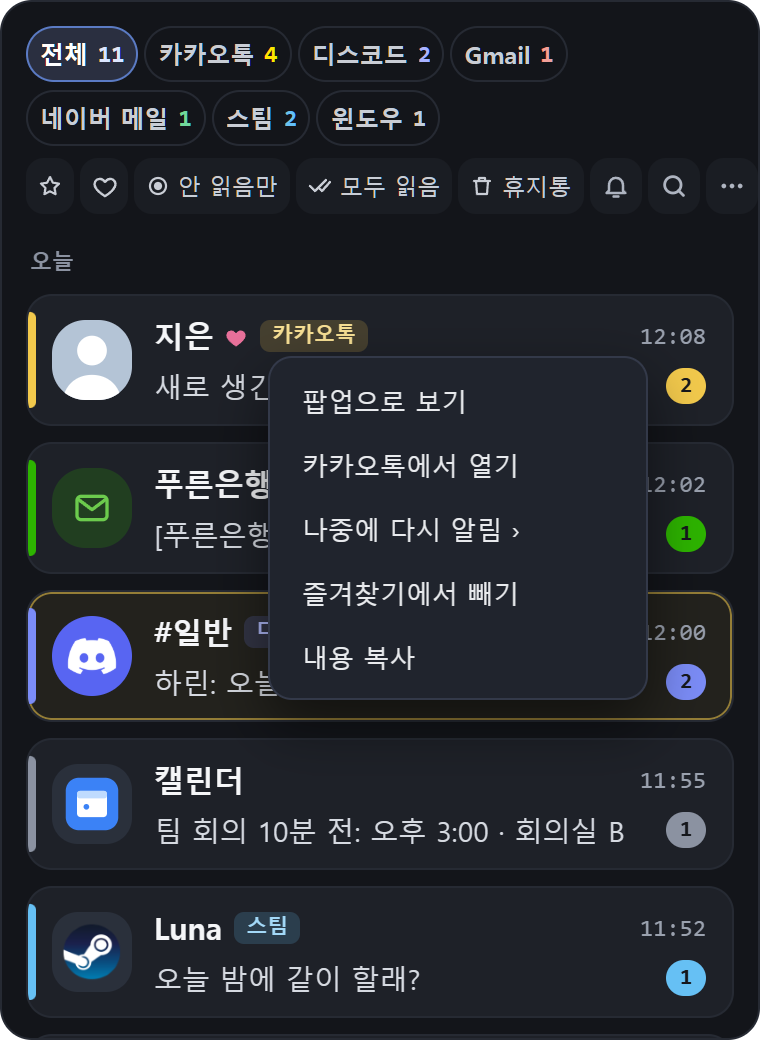
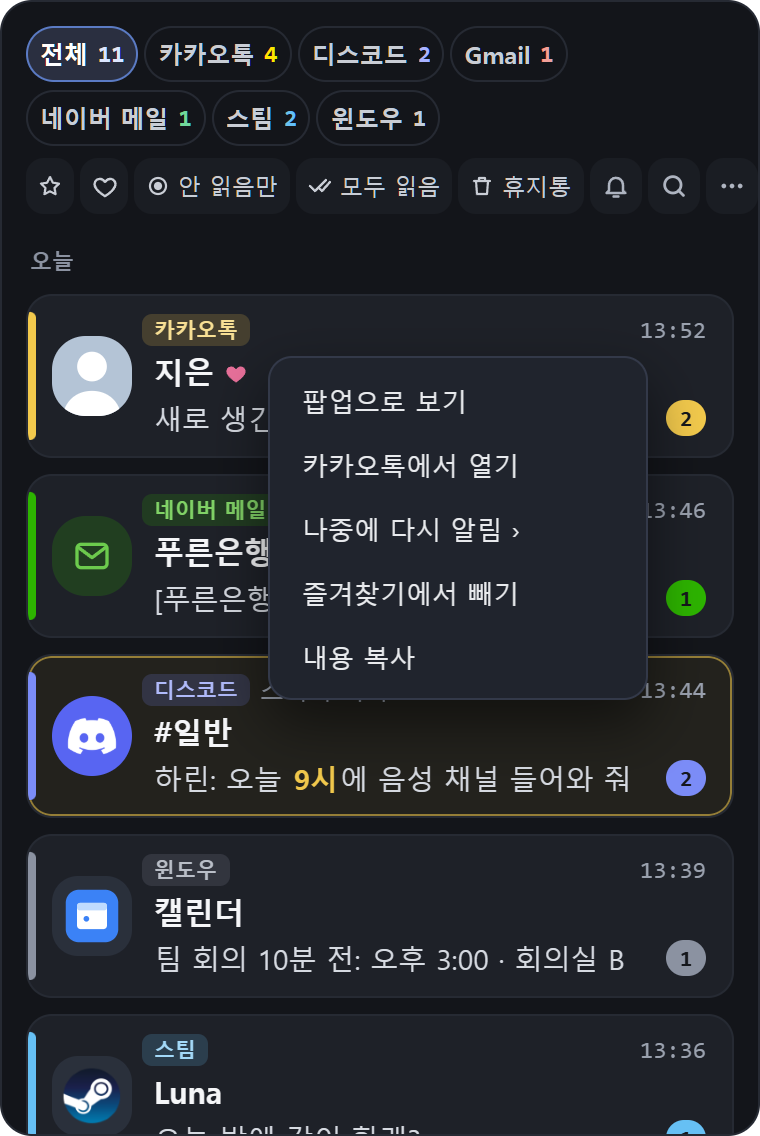
소개 페이지: 0.9.10 에 맞춤 (세 줄 카드 · 우클릭과 같은 ⋯ 메뉴 · 사용법 사진)

diff --git a/README.md b/README.md
@@ -86,12 +86,12 @@
   <tr>
     <td align="center" width="33%"><img src="images/search.png" alt="검색 칸에 '회의'를 넣자 찾은 낱말이 노랗게 표시된 결과"></td>
     <td align="center" width="33%"><img src="images/menu-card.png" alt="카드 우클릭 메뉴: 팝업으로 보기 · 카카오톡에서 열기 · 나중에 다시 알림 · 즐겨찾기 · 내용 복사"></td>
-    <td align="center" width="33%"><img src="images/menu-panel.png" alt="위젯 빈 곳 우클릭 메뉴: 모두 읽음 · 휴지통 · 키워드 알림 · 잠깐 조용히 · 미니 모드 · 개인정보 가리기 · 소리 · 위젯 자리 고정 · 설정"></td>
+    <td align="center" width="33%"><img src="images/menu-panel.png" alt="위젯 빈 곳 우클릭 메뉴 (⋯ 메뉴와 같음): 키워드 알림 · 잠깐 조용히 · 개인정보 가리기 · 미니 모드 · 위젯 자리 고정 · 설정"></td>
   </tr>
   <tr>
     <td align="center"><b>검색</b><br>내용 · 보낸 사람 · 날짜 (Ctrl+Alt+N)</td>
     <td align="center"><b>카드 우클릭</b></td>
-    <td align="center"><b>빈 곳 우클릭</b></td>
+    <td align="center"><b>빈 곳 우클릭 · ⋯ 메뉴</b></td>
   </tr>
 </table>
 
